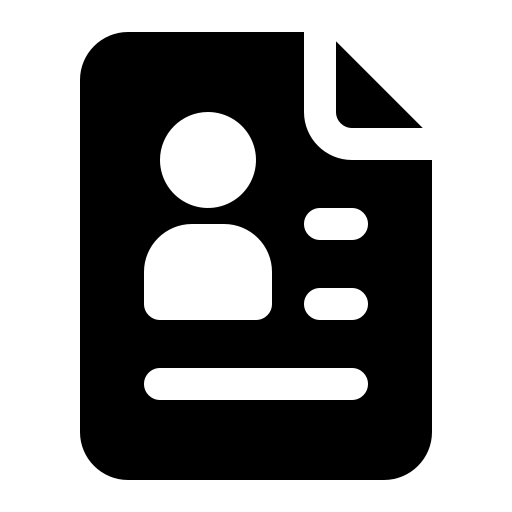
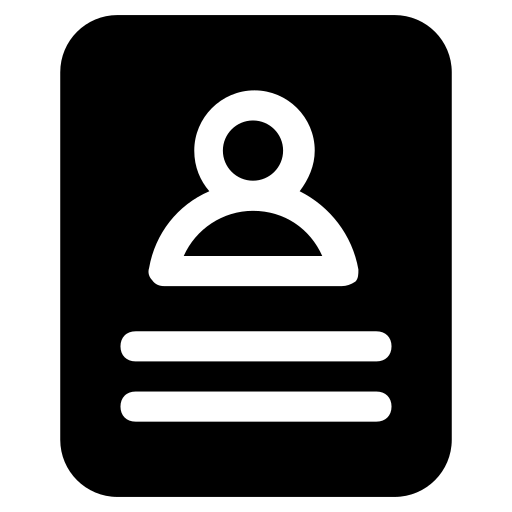
8/5/2025 - READY FOR DEPLOYMENT!

diff --git a/src/App.css b/src/App.css
@@ -593,35 +593,37 @@ a {
   box-shadow: inset 0 0 15px rgba(85, 85, 85, 0.281), 
               0 0px 15px rgba(153, 141, 141, 0.445);
   }
-.skillbackend {
-  background: radial-gradient(circle, rgba(125, 170, 255, 0.35) 0%, rgba(20, 60, 130, 0.95) 100%);
-  /* Blue: calm, common for languages */
+
+  .skillbackend {
+background: radial-gradient(circle,rgb(72, 98, 124) 0%, rgb(2, 49, 150) 100%);  /* Cool blue — structured and backend-feeling */
 }
 
 .skilllanguage {
-  background: radial-gradient(circle, rgba(255, 120, 90, 0.35) 0%, rgba(130, 40, 20, 0.95) 100%);
-  /* Deep red/orange: strong & assertive */
+  background: radial-gradient(circle, rgba(139, 81, 82, 0.8) 0%, rgba(168, 42, 46, 0.95) 100%);
+  /* Bold red — expressive, direct, language-focused */
 }
 
 .skillfrontend {
-  background: radial-gradient(circle, rgba(120, 255, 150, 0.3) 0%, rgba(30, 100, 40, 0.95) 100%);
-  /* Bright green: energetic, visual */
+  background: radial-gradient(circle, rgba(125, 211, 144, 0.8) 0%, rgba(5, 126, 69, 0.932) 100%);
+  /* Bright green — visual, energetic, dynamic */
 }
 
 .skillembedded {
-  background: radial-gradient(circle, rgba(255, 225, 100, 0.3) 0%, rgba(120, 90, 20, 0.95) 100%);
-  /* Mustard yellow: hardware/embedded feel */
+  background: radial-gradient(circle, rgba(219, 195, 128, 0.8) 0%, rgba(211, 148, 11, 0.95) 100%);
+  /* Yellow-gold — embedded systems / signal / hardware */
 }
 
 .skilltools {
-  background: radial-gradient(circle, rgba(190, 190, 190, 0.25) 0%, rgba(70, 70, 70, 0.95) 100%);
-  /* Neutral gray: for utilities/dev tools */
+  background: radial-gradient(circle, rgba(124, 124, 124, 0.8) 0%, rgba(71, 71, 71, 0.95) 100%);
+  /* Deep purple — understated, behind-the-scenes tools */
 }
 
 .skillsoft {
-  background: radial-gradient(circle, rgba(220, 140, 255, 0.25) 0%, rgba(90, 20, 120, 0.95) 100%);
-  /* Purple-pink: soft but confident tone */
+  background: radial-gradient(circle, rgba(143, 108, 192, 0.8) 0%, rgba(89, 4, 146, 0.9) 100%);
+  /* Purple-to-gold — confident and warm for soft skills */
 }
+
+
 
 
 
@@ -818,23 +820,22 @@ a {
   }
 
   .projectcorepanel {
-  background: radial-gradient(circle, rgba(110, 180, 255, 0.35) 0%, rgba(15, 40, 85, 0.95) 100%);
+background: radial-gradient(circle,rgb(72, 98, 124) 0%, rgb(2, 49, 150) 100%);  /* Cool blue — structured and backend-feeling */
 }
 
   .projectsmarthome {
-  background: radial-gradient(circle, rgba(255, 225, 100, 0.35) 0%, rgba(120, 90, 20, 0.95) 100%);
+  background: radial-gradient(circle, rgba(212, 185, 109, 0.8) 0%, rgba(211, 148, 11, 0.95) 100%);
 }
 
 
   .projectsnapmotive {
-  background: radial-gradient(circle, rgba(220, 140, 255, 0.35) 0%, rgba(90, 20, 120, 0.95) 100%);
+  background: radial-gradient(circle, rgba(125, 211, 144, 0.8) 0%, rgba(5, 126, 69, 0.932) 100%);
 }
 
 
   .projectprojectssimplified {
-  background: radial-gradient(circle, rgba(255, 120, 90, 0.35) 0%, rgba(130, 40, 20, 0.95) 100%);
+  background: radial-gradient(circle, rgba(139, 81, 82, 0.8) 0%, rgba(168, 42, 46, 0.95) 100%);
 }
-
 
 
   .corepanelimg{
@@ -1090,12 +1091,14 @@ a {
 }
   .aboutmelinks{
     /*background-color: orange;*/
+    flex-direction: column;
     display: flex;
     justify-content: space-evenly;
     width: 100%;
     margin-left: auto;
     margin-right: auto;
     margin-top: 50px;
+    align-items: center;
   }
   .aboutmelinks a{
     display: flex;
@@ -1107,7 +1110,7 @@ a {
     filter: brightness(.75);
     margin-top: auto;
     margin-bottom: auto;
-    height: 35px;
+    height: 32px;
     width: 115px;
     display: flex;
     justify-content: space-evenly;
@@ -1219,13 +1222,80 @@ a {
     font-family: "Geist";
     font-weight: 600;
   }
-  .footer{
+    .footer{
+    background: rgba(12, 7, 20, 1) 100%;
+    height: 170px;
+    border-top: solid 1px #7b7b7b44;
+    width: 100%;
+    display: flex;
+    flex-direction: column;
+  }
+  .footertop{
+    height: 90%;
+    /*background-color: orangered;*/
+    display: flex;
+    justify-content: center;
+    gap: 5%;
+  }
+  .footersitelinks{
+    /*background-color: #7b7b7b;*/
+    height: 100%;
+    width: 170px;
+    display: flex;
+    flex-direction: column;
+    font-family: "Geist";
+    text-align: center;
+  }
+  .footertop h5{
+    color: var(--impwhite);
+    margin-bottom: 2px;
+    margin-top: 10px;
+    font-weight: 800;
+    margin-left: auto;
+    margin-right: auto;
+    line-height: 1;
+    font-size: 18px;
+  }
+  .footertop p{
+    /*background-color: goldenrod;*/
+    width: 100px;
+    color: #afafaf;
+    margin: 0;
+    line-height: 1.5;
+    margin-left: auto;
+    margin-right: auto;
+    font-size: 14px;
+    font-weight: 600;
+    transition: all .15s ease;
+  }
+  .footer p:hover{
+    transform: scale(1.05);
+    color: #f7f7f7;
+  }
+  .footerresources{
+    /*background-color: plum;*/
+    height: 100%;
+    width: 170px;
+  }
+  .footerbottom{
+    height: 10%;
+    /*background-color: blue;*/
+    display: flex;
+    margin-left: 10px;
+    width: auto;
+  }
+  .footerbottom p{
+    line-height: 1;
+    margin-left: auto;
+    margin-right: auto;
+    margin-top: 0;
+    margin-bottom: 0;
     color: var(--darkwhite);
     font-family: "Geist";
-    font-weight: 600;
-    font-size: 12px;
-    margin-left: 40px;
-    margin-right: 40px;
+    font-size: 10px;
+    font-weight: 700;
+    text-align: center;
+    transition: all .15s ease;
   }
   
 
@@ -1853,35 +1923,36 @@ a {
   box-shadow: inset 0 0 15px rgba(85, 85, 85, 0.281), 
               0 0px 15px rgba(153, 141, 141, 0.445);
   }
-.skillbackend {
-  background: radial-gradient(circle, rgba(125, 170, 255, 0.35) 0%, rgba(20, 60, 130, 0.95) 100%);
-  /* Blue: calm, common for languages */
+
+  .skillbackend {
+background: radial-gradient(circle,rgb(72, 98, 124) 0%, rgb(2, 49, 150) 100%);  /* Cool blue — structured and backend-feeling */
 }
 
 .skilllanguage {
-  background: radial-gradient(circle, rgba(255, 120, 90, 0.35) 0%, rgba(130, 40, 20, 0.95) 100%);
-  /* Deep red/orange: strong & assertive */
+  background: radial-gradient(circle, rgba(139, 81, 82, 0.8) 0%, rgba(168, 42, 46, 0.95) 100%);
+  /* Bold red — expressive, direct, language-focused */
 }
 
 .skillfrontend {
-  background: radial-gradient(circle, rgba(120, 255, 150, 0.3) 0%, rgba(30, 100, 40, 0.95) 100%);
-  /* Bright green: energetic, visual */
+  background: radial-gradient(circle, rgba(125, 211, 144, 0.8) 0%, rgba(5, 126, 69, 0.932) 100%);
+  /* Bright green — visual, energetic, dynamic */
 }
 
 .skillembedded {
-  background: radial-gradient(circle, rgba(255, 225, 100, 0.3) 0%, rgba(120, 90, 20, 0.95) 100%);
-  /* Mustard yellow: hardware/embedded feel */
+  background: radial-gradient(circle, rgba(219, 195, 128, 0.8) 0%, rgba(211, 148, 11, 0.95) 100%);
+  /* Yellow-gold — embedded systems / signal / hardware */
 }
 
 .skilltools {
-  background: radial-gradient(circle, rgba(190, 190, 190, 0.25) 0%, rgba(70, 70, 70, 0.95) 100%);
-  /* Neutral gray: for utilities/dev tools */
+  background: radial-gradient(circle, rgba(124, 124, 124, 0.8) 0%, rgba(71, 71, 71, 0.95) 100%);
+  /* Deep purple — understated, behind-the-scenes tools */
 }
 
 .skillsoft {
-  background: radial-gradient(circle, rgba(220, 140, 255, 0.25) 0%, rgba(90, 20, 120, 0.95) 100%);
-  /* Purple-pink: soft but confident tone */
+  background: radial-gradient(circle, rgba(143, 108, 192, 0.8) 0%, rgba(89, 4, 146, 0.9) 100%);
+  /* Purple-to-gold — confident and warm for soft skills */
 }
+
 
 
 
@@ -2056,21 +2127,21 @@ a {
   }
 
   .projectcorepanel {
-  background: radial-gradient(circle, rgba(110, 180, 255, 0.35) 0%, rgba(15, 40, 85, 0.95) 100%);
+background: radial-gradient(circle,rgb(72, 98, 124) 0%, rgb(2, 49, 150) 100%);  /* Cool blue — structured and backend-feeling */
 }
 
   .projectsmarthome {
-  background: radial-gradient(circle, rgba(255, 225, 100, 0.35) 0%, rgba(120, 90, 20, 0.95) 100%);
+  background: radial-gradient(circle, rgba(212, 185, 109, 0.8) 0%, rgba(211, 148, 11, 0.95) 100%);
 }
 
 
   .projectsnapmotive {
-  background: radial-gradient(circle, rgba(220, 140, 255, 0.35) 0%, rgba(90, 20, 120, 0.95) 100%);
+  background: radial-gradient(circle, rgba(125, 211, 144, 0.8) 0%, rgba(5, 126, 69, 0.932) 100%);
 }
 
 
   .projectprojectssimplified {
-  background: radial-gradient(circle, rgba(255, 120, 90, 0.35) 0%, rgba(130, 40, 20, 0.95) 100%);
+  background: radial-gradient(circle, rgba(139, 81, 82, 0.8) 0%, rgba(168, 42, 46, 0.95) 100%);
 }
 
 

diff --git a/src/App.js b/src/App.js
@@ -113,7 +113,7 @@ function App() {
               </div>
               <div className='aboutmelinks'>
                 <a href = "https://www.linkedin.com/in/pearce-packman/" target = "_blank" rel="noopener noreferrer" alt = "linkedin">
-                <div className='aboutmebutton linkedinbutton'>
+                <div className='aboutmebutton githubbutton'>
                   <img className='github' src = { linkedin }></img>
                   <p>LinkedIn Page</p>
                 </div>
@@ -122,6 +122,12 @@ function App() {
                 <div className='aboutmebutton githubbutton'>
                   <img className='github' src = { github }></img>
                   <p>GitHub Page</p>
+                </div>
+                </a>
+                <a href = "https://drive.google.com/file/d/151GyXMqMP7wq571OO6Mu-xP-C8lHL283/view" target = "_blank" rel="noopener noreferrer" alt = "github">
+                <div className='aboutmebutton githubbutton'>
+                  <img className='github' src = { resume }></img>
+                  <p>My Resume</p>
                 </div>
                 </a>
               </div>

diff --git a/public/index.html b/public/index.html
@@ -24,7 +24,7 @@
       work correctly both with client-side routing and a non-root public URL.
       Learn how to configure a non-root public URL by running `npm run build`.
     -->
-    <title>Pearce Packman | Full Stack Developer</title>
+    <title>Pearce Packman</title>
   </head>
   <body>
     <noscript>You need to enable JavaScript to run this app.</noscript>
